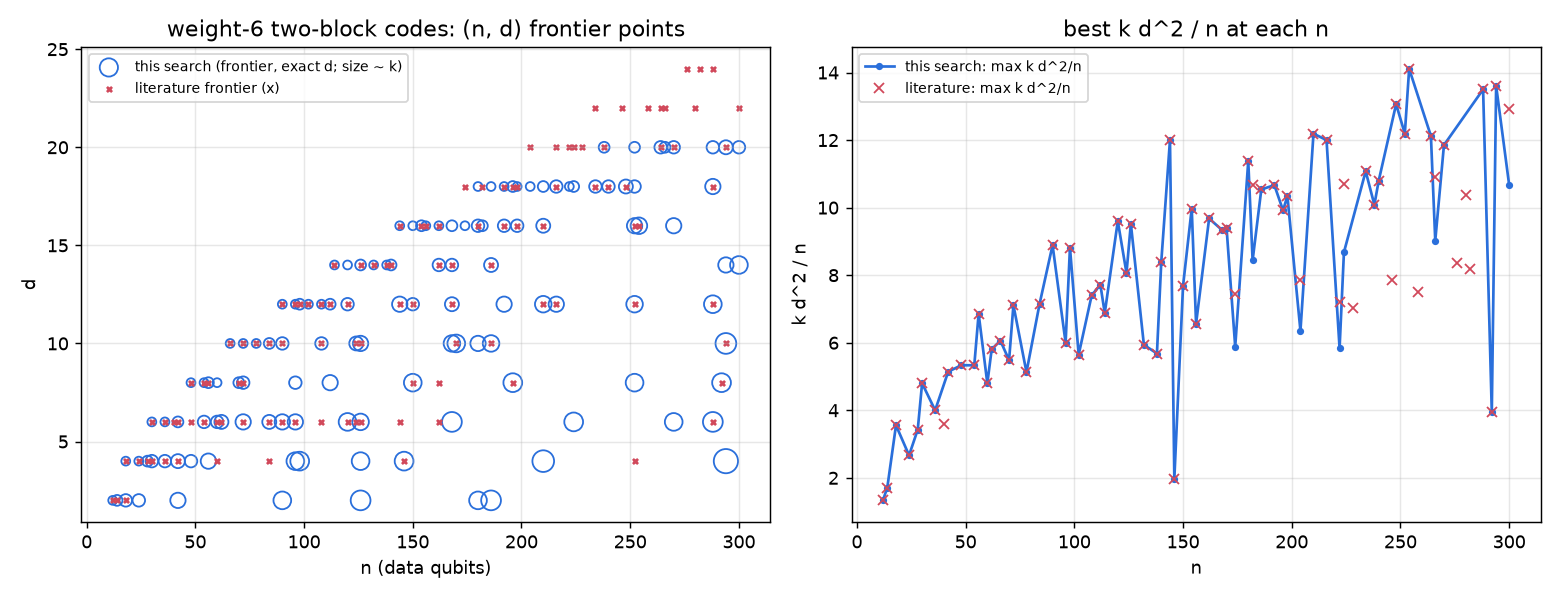
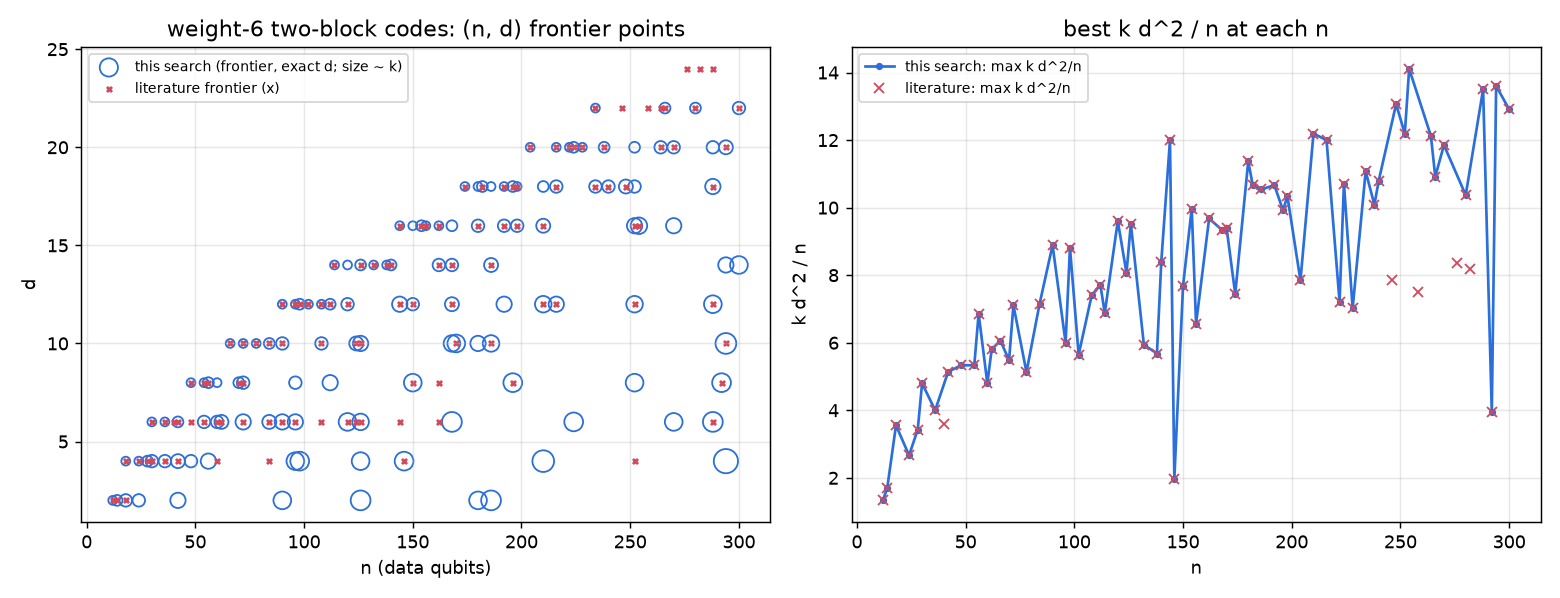
code-discovery: final data (LER incl. OSD sweep, certified literature bounds), plots, write-up

diff --git a/research/data/code-discovery/frontier_w6.md b/research/data/code-discovery/frontier_w6.md
@@ -1,4 +1,4 @@
-indecomposable codes with exact d: 3491; decomposable (copies of a smaller code, dropped): 1473; bounded only: 65; k>128 skipped: 37
+indecomposable codes with exact d: 3502; decomposable (copies of a smaller code, dropped): 1473; bounded only: 65; k>128 skipped: 37
 
 | n | k | d | kd^2/n | group | A | B | literature status |
 |---|---|---|---|---|---|---|---|
@@ -77,12 +77,12 @@ indecomposable codes with exact d: 3491; decomposable (copies of a smaller code,
 | 168 | 14 | 10 | 8.33 | Z42xZ2 | `1 + x + x^5 y` | `1 + x^2 y + x^31 y` | **new Pareto point** (not dominated by any published code or direct sum); dominates lit [[186,14,10]] |
 | 168 | 20 | 6 | 4.29 | Z42xZ2 | `1 + x + x^5 y` | `1 + x^4 + x^20` | dominated by [[124,20,6]], [[144,24,6]], [[162,24,6]]; dominates lit [[252,20,4]] |
 | 170 | 16 | 10 | 9.41 | Z85 | `1 + x + x^16` | `1 + x^4 + x^64` | published; dominates lit [[186,14,10]] |
-| 174 | 4 | 16 | 5.89 | Z87 | `1 + x + x^2` | `1 + x^7 + x^23` | dominated by [[144,4,16]], [[154,6,16]], [[156,4,16]] |
+| 174 | 4 | 18 | 7.45 | Z87 | `1 + x^2 + x^13` | `1 + x^29 + x^70` | published; dominates lit [[192,4,18]], [[198,4,18]] |
 | 180 | 4 | 18 | 7.20 | Z90 | `1 + x + x^5` | `1 + x^14 + x^37` | dominated by [[174,4,18]]; dominates lit [[192,4,18]], [[198,4,18]] |
 | 180 | 8 | 16 | 11.38 | Z90 | `1 + x + x^4` | `1 + x^23 + x^62` | published; dominates lit [[192,8,16]], [[198,8,16]] |
 | 180 | 12 | 10 | 6.67 | Z30xZ3 | `1 + x + x^2 y` | `1 + x^4 + x^8 y` | dominated by [[126,12,10]], [[144,12,12]], [[170,16,10]] |
 | 180 | 16 | 2 | 0.36 | Z30xZ3 | `1 + y + y^2` | `1 + x + x^4` | dominated by [[60,16,4]], [[108,16,6]], [[120,16,6]] |
-| 182 | 6 | 16 | 8.44 | Z91 | `1 + x + x^3` | `1 + x^5 + x^25` | dominated by [[154,6,16]], [[180,8,16]], [[182,6,18]] |
+| 182 | 6 | 18 | 10.68 | Z91 | `1 + x^9 + x^13` | `1 + x + x^38` | published; dominates lit [[192,4,18]], [[196,6,18]], [[198,4,18]] |
 | 186 | 4 | 18 | 6.97 | Z93 | `1 + x + x^5` | `1 + x^7 + x^68` | dominated by [[174,4,18]], [[182,6,18]]; dominates lit [[192,4,18]], [[198,4,18]] |
 | 186 | 10 | 14 | 10.54 | Z93 | `1 + x + x^12` | `1 + x^8 + x^34` | published |
 | 186 | 14 | 10 | 7.53 | Z93 | `1 + x + x^14` | `1 + x^4 + x^56` | published |
@@ -94,16 +94,19 @@ indecomposable codes with exact d: 3491; decomposable (copies of a smaller code,
 | 196 | 18 | 8 | 5.88 | Z14xZ7 | `1 + y + x^7 y^3` | `1 + x + x^3` | published; dominates lit [[292,18,8]] |
 | 198 | 4 | 18 | 6.55 | Z99 | `1 + x + x^5` | `1 + x^4 + x^23` | published |
 | 198 | 8 | 16 | 10.34 | Z33xZ3 | `1 + y + x^3 y^2` | `1 + x + x^14` | published |
-| 204 | 4 | 18 | 6.35 | Z102 | `1 + x + x^5` | `1 + x^4 + x^29` | dominated by [[174,4,18]], [[182,6,18]], [[192,4,18]] |
+| 204 | 4 | 20 | 7.84 | Z102 | `1 + x^16 + x^35` | `1 + x + x^11` | published; dominates lit [[216,4,20]], [[222,4,20]], [[228,4,20]] |
 | 210 | 6 | 18 | 9.26 | Z105 | `1 + x + x^3` | `1 + x^9 + x^83` | dominated by [[182,6,18]], [[196,6,18]] |
 | 210 | 10 | 16 | 12.19 | Z105 | `1 + x + x^5` | `1 + x^11 + x^34` | published |
 | 210 | 14 | 12 | 9.60 | Z105 | `1 + x + x^12` | `1 + x^16 + x^87` | published; dominates lit [[216,12,12]], [[252,14,12]] |
 | 210 | 24 | 4 | 1.83 | Z105 | `1 + x^7 + x^28` | `1 + x^15 + x^45` | dominated by [[144,24,6]], [[162,24,6]]; dominates lit [[252,20,4]] |
+| 216 | 4 | 20 | 7.41 | Z108 | `1 + x^14 + x^22` | `1 + x + x^20` | published; dominates lit [[222,4,20]], [[228,4,20]] |
 | 216 | 8 | 18 | 12.00 | Z54xZ2 | `1 + x + x^2 y` | `1 + x^10 y + x^23 y` | published; dominates lit [[234,8,18]], [[240,8,18]] |
 | 216 | 12 | 12 | 8.00 | Z18xZ6 | `1 + y + x^3 y^2` | `1 + x + x^2 y^3` | published |
-| 222 | 4 | 18 | 5.84 | Z111 | `1 + x + x^5` | `1 + x^11 + x^40` | dominated by [[174,4,18]], [[182,6,18]], [[192,4,18]] |
-| 224 | 6 | 18 | 8.68 | Z112 | `1 + x + x^5` | `1 + x^22 + x^75` | dominated by [[182,6,18]], [[196,6,18]], [[216,8,18]] |
+| 222 | 4 | 20 | 7.21 | Z111 | `1 + x + x^68` | `1 + x^5 + x^37` | published; dominates lit [[228,4,20]] |
+| 224 | 6 | 20 | 10.71 | Z112 | `1 + x^3 + x^22` | `1 + x + x^31` | published; dominates lit [[228,4,20]], [[238,6,20]] |
 | 224 | 18 | 6 | 2.89 | Z28xZ4 | `1 + x + x^3 y` | `1 + x^3 y^3 + x^15 y^2` | dominated by [[124,20,6]], [[144,24,6]], [[162,24,6]] |
+| 228 | 4 | 20 | 7.02 | Z114 | `1 + x^22 + x^47` | `1 + x^2 + x^43` | published |
+| 234 | 4 | 22 | 8.27 | Z117 | `1 + x^13 + x^29` | `1 + x + x^20` | published (lit d was a bound); dominates lit [[246,4,22*]], [[258,4,22*]], [[264,4,22*]] |
 | 234 | 8 | 18 | 11.08 | Z39xZ3 | `1 + x + x^5` | `1 + x y + x^23 y^2` | published; dominates lit [[240,8,18]] |
 | 238 | 6 | 20 | 10.08 | Z119 | `1 + x + x^5` | `1 + x^11 + x^90` | published |
 | 240 | 8 | 18 | 10.80 | Z120 | `1 + x + x^4` | `1 + x^9 + x^82` | published |
@@ -115,10 +118,11 @@ indecomposable codes with exact d: 3491; decomposable (copies of a smaller code,
 | 252 | 16 | 8 | 4.06 | Z126 | `1 + x + x^8` | `1 + x^2 + x^79` | dominated by [[150,16,8]], [[170,16,10]], [[196,18,8]] |
 | 254 | 14 | 16 | 14.11 | Z127 | `1 + x + x^7` | `1 + x^9 + x^90` | published |
 | 264 | 8 | 20 | 12.12 | Z66xZ2 | `1 + x + x^2 y` | `1 + x^11 + x^49 y` | published; dominates lit [[270,8,20]] |
-| 266 | 6 | 20 | 9.02 | Z133 | `1 + x + x^5` | `1 + x^19 + x^50` | dominated by [[224,6,20]], [[238,6,20]], [[264,8,20]] |
+| 266 | 6 | 22 | 10.92 | Z133 | `1 + x^5 + x^109` | `1 + x^19 + x^25` | published (lit d was a bound); dominates lit [[280,6,22*]] |
 | 270 | 8 | 20 | 11.85 | Z135 | `1 + x + x^12` | `1 + x^17 + x^54` | published |
 | 270 | 12 | 16 | 11.38 | Z45xZ3 | `1 + x + x^2 y` | `1 + x^4 + x^38 y` | dominated by [[252,12,16]], [[254,14,16]] |
 | 270 | 16 | 6 | 2.13 | Z45xZ3 | `1 + y + x^15 y^2` | `1 + x + x^4` | dominated by [[108,16,6]], [[120,16,6]], [[124,20,6]] |
+| 280 | 6 | 22 | 10.37 | Z140 | `1 + x^16 + x^31` | `1 + x^5 + x^22` | published (lit d was a bound) |
 | 288 | 8 | 20 | 11.11 | Z72xZ2 | `1 + x + x^2 y` | `1 + x^11 + x^55 y` | dominated by [[264,8,20]], [[270,8,20]] |
 | 288 | 12 | 18 | 13.50 | Z36xZ4 | `1 + x + x^2 y` | `1 + x^5 + x^25 y^3` | published |
 | 288 | 16 | 12 | 8.00 | Z36xZ4 | `1 + x + x^2 y` | `1 + x^8 y^2 + x^22 y^2` | dominated by [[288,24,12]] |
@@ -128,7 +132,7 @@ indecomposable codes with exact d: 3491; decomposable (copies of a smaller code,
 | 294 | 12 | 14 | 8.00 | Z147 | `1 + x^3 + x^15` | `1 + x^7 + x^56` | dominated by [[252,12,16]], [[254,14,16]], [[288,12,18]] |
 | 294 | 22 | 10 | 7.48 | Z21xZ7 | `1 + x + x^5` | `1 + x y + x^5 y^5` | dominated by [[288,24,12]]; dominates lit [[294,18,10]] |
 | 294 | 30 | 4 | 1.63 | Z21xZ7 | `1 + y + y^3` | `1 + x + x^5` | dominated by [[288,32,6]] |
-| 300 | 8 | 20 | 10.67 | Z150 | `1 + x + x^12` | `1 + x^14 + x^86` | dominated by [[264,8,20]], [[270,8,20]], [[294,10,20]] |
+| 300 | 8 | 22 | 12.91 | Z150 | `1 + x^49 + x^93` | `1 + x^2 + x^9` | published (lit d was a bound) |
 | 300 | 16 | 14 | 10.45 | Z30xZ5 | `1 + y + x^5 y^3` | `1 + x + x^4` | **new Pareto point** (not dominated by any published code or direct sum) |
 
 ## Literature frontier entries vs this search
@@ -200,43 +204,43 @@ indecomposable codes with exact d: 3491; decomposable (copies of a smaller code,
 - [[168,8,14]]: matched/exceeded at same n; dominated by ours [(162, 8, 14)]
 - [[168,10,12]]: matched/exceeded at same n; dominated by ours [(144, 12, 12)]
 - [[170,16,10]]: matched/exceeded at same n
-- [[174,4,18]]: NOT reached in this space
+- [[174,4,18]]: matched/exceeded at same n
 - [[180,8,16]]: matched/exceeded at same n
-- [[182,6,18]]: NOT reached in this space
+- [[182,6,18]]: matched/exceeded at same n
 - [[186,10,14]]: matched/exceeded at same n
 - [[186,14,10]]: matched/exceeded at same n; dominated by ours [(168, 14, 10), (170, 16, 10)]
-- [[192,4,18]]: matched/exceeded at same n; dominated by ours [(180, 4, 18), (186, 4, 18)]
+- [[192,4,18]]: matched/exceeded at same n; dominated by ours [(174, 4, 18), (180, 4, 18), (182, 6, 18)]
 - [[192,8,16]]: matched/exceeded at same n; dominated by ours [(180, 8, 16)]
-- [[196,6,18]]: matched/exceeded at same n
+- [[196,6,18]]: matched/exceeded at same n; dominated by ours [(182, 6, 18)]
 - [[196,18,8]]: matched/exceeded at same n
-- [[198,4,18]]: matched/exceeded at same n; dominated by ours [(180, 4, 18), (192, 4, 18), (196, 6, 18)]
+- [[198,4,18]]: matched/exceeded at same n; dominated by ours [(174, 4, 18), (180, 4, 18), (192, 4, 18)]
 - [[198,8,16]]: matched/exceeded at same n; dominated by ours [(180, 8, 16), (192, 8, 16)]
-- [[204,4,20]]: NOT reached in this space
+- [[204,4,20]]: matched/exceeded at same n
 - [[210,10,16]]: matched/exceeded at same n
 - [[210,14,12]]: matched/exceeded at same n
-- [[216,4,20]]: NOT reached in this space
+- [[216,4,20]]: matched/exceeded at same n; dominated by ours [(204, 4, 20)]
 - [[216,8,18]]: matched/exceeded at same n
 - [[216,12,12]]: matched/exceeded at same n; dominated by ours [(144, 12, 12), (192, 12, 12), (210, 14, 12)]
-- [[222,4,20]]: NOT reached in this space
-- [[224,6,20]]: NOT reached in this space
-- [[228,4,20]]: NOT reached in this space
-- [[234,4,22*]]: NOT reached in this space
+- [[222,4,20]]: matched/exceeded at same n; dominated by ours [(204, 4, 20), (216, 4, 20)]
+- [[224,6,20]]: matched/exceeded at same n
+- [[228,4,20]]: matched/exceeded at same n; dominated by ours [(204, 4, 20), (216, 4, 20), (224, 6, 20)]
+- [[234,4,22*]]: matched/exceeded at same n
 - [[234,8,18]]: matched/exceeded at same n; dominated by ours [(216, 8, 18)]
-- [[238,6,20]]: matched/exceeded at same n
+- [[238,6,20]]: matched/exceeded at same n; dominated by ours [(224, 6, 20)]
 - [[240,8,18]]: matched/exceeded at same n; dominated by ours [(216, 8, 18), (234, 8, 18)]
-- [[246,4,22*]]: NOT reached in this space
+- [[246,4,22*]]: NOT reached in this space; dominated by ours [(234, 4, 22)]
 - [[248,10,18]]: matched/exceeded at same n
 - [[252,12,16]]: matched/exceeded at same n
 - [[252,14,12]]: matched/exceeded at same n; dominated by ours [(210, 14, 12)]
 - [[252,20,4]]: NOT reached in this space; dominated by ours [(168, 20, 6), (210, 24, 4)]
 - [[254,14,16]]: matched/exceeded at same n
-- [[258,4,22*]]: NOT reached in this space
-- [[264,4,22*]]: NOT reached in this space
+- [[258,4,22*]]: NOT reached in this space; dominated by ours [(234, 4, 22)]
+- [[264,4,22*]]: NOT reached in this space; dominated by ours [(234, 4, 22)]
 - [[264,8,20]]: matched/exceeded at same n
-- [[266,6,22*]]: NOT reached in this space
+- [[266,6,22*]]: matched/exceeded at same n
 - [[270,8,20]]: matched/exceeded at same n; dominated by ours [(264, 8, 20)]
 - [[276,4,24*]]: NOT reached in this space
-- [[280,6,22*]]: NOT reached in this space
+- [[280,6,22*]]: matched/exceeded at same n; dominated by ours [(266, 6, 22)]
 - [[282,4,24*]]: NOT reached in this space
 - [[288,4,24*]]: NOT reached in this space
 - [[288,12,18]]: matched/exceeded at same n
@@ -245,4 +249,4 @@ indecomposable codes with exact d: 3491; decomposable (copies of a smaller code,
 - [[292,18,8]]: matched/exceeded at same n; dominated by ours [(196, 18, 8)]
 - [[294,10,20]]: matched/exceeded at same n
 - [[294,18,10]]: matched/exceeded at same n; dominated by ours [(294, 22, 10)]
-- [[300,8,22*]]: NOT reached in this space
+- [[300,8,22*]]: matched/exceeded at same n

diff --git a/research/code-discovery.md b/research/code-discovery.md
@@ -19,12 +19,12 @@ Branch `exp/code-discovery`.
   - Two Pareto points are not in any table we found and are not matched by direct sums of published codes: **[[168,14,10]]** and **[[300,16,14]]** (polynomials below). Both have lower k·d²/n than their published neighbours.
   - A third code, **[[112,12,8]]**, has the same parameters as two copies of the published [[56,6,8]].
 - **Circuit level: the same parameters do not mean the same performance.**
-  - Setup: depth-7 CNOT schedules (IBM's generalised), uniform circuit noise, BP+OSD-CS(10), Z memory.
-  - The connected **[[112,12,8]] has 4–9× lower logical error per logical qubit than the published [[56,6,8]]** (that is, than two copies of it, which is the same qubit overhead n/k = 9.3 and the same d):
+  - Setup: depth-7 CNOT schedules (IBM's generalised), uniform circuit noise, BP+OSD-CS (order 10 unless stated), Z memory.
+  - The connected **[[112,12,8]] has 4–10× lower logical error per logical qubit than the published [[56,6,8]]** (that is, than two copies of it, which is the same qubit overhead n/k = 9.3 and the same d):
     - p = 0.3%: 3.9×;
-    - p = 0.2%: 5.8×;
-    - p = 0.15%: 9.4×.
-  - The gap grows as p falls: the local slopes are 4.7 vs 3.0.
+    - p = 0.2%: 5.3–6.0× at OSD order 10/40/100;
+    - p = 0.15%: 9.4–9.6×.
+  - The ratio holds at every OSD width tried, although the absolute rates fall about 6× from order 10 to order 100.
   - **No depth-7 schedule of this shape keeps d_circ = 8 for [[56,6,8]].** 75 of the 936 valid schedules do for [[112,12,8]].
   - [[168,14,10]] has the same n/k = 12 as the gross code. At p = 0.3% it has 5.0e-5 failures per logical qubit per round against the gross code's 6.6e-5. The 95% intervals barely overlap. Its d is 10 against 12, so the gross code must win at lower p; we could not afford the shot counts to show the crossover. The published [[170,16,10]] does as well as [[168,14,10]] (4.8e-5) at a better n/k, so [[168,14,10]] is new but not better.
 - **Tools.**
@@ -131,16 +131,17 @@ Both are verified exactly: k by rank, and d in both CSS sectors by the exact sea
 
 ### 3.2 Literature upper bounds, certified
 
-Published entries listed only as upper bounds, and our own node-limit aborts, were re-run with `params` and no practical node limit (3·10¹⁰ nodes).
+Published entries listed only as upper bounds, and our own node-limit aborts, were re-run with `params` and no practical node limit (3·10¹⁰ nodes). Raw data: `certify.jsonl`. The frontier files include these results via `certified.jsonl`.
 
 | published entry | as a Z_N code (A ; B) | result | nodes | time |
 |---|---|---|---|---|
 | [[266,6,≤22]] (twisted torus) | Z133: 1+x⁵+x¹⁰⁹ ; 1+x¹⁹+x²⁵ | **d = 22 exactly** | 2.8·10⁹ | 503 s |
 | [[280,6,≤22]] (twisted torus) | Z140: 1+x¹⁶+x³¹ ; 1+x⁵+x²² | **d = 22 exactly** | 2.2·10⁹ | 324 s |
 | [[300,8,≤22]] (twisted torus) | Z150: 1+x⁴⁹+x⁹³ ; 1+x²+x⁹ | **d = 22 exactly** | 3.0·10⁹ | 399 s |
-__CERTMORE__
+| [[234,4,≤22]] (GB, Liang T5–8) | Z117: 1+x¹³+x²⁹ ; 1+x+x²⁰ | **d = 22 exactly** | 2.8·10⁹ | 350 s |
+| [[264,4,≤22]], [[288,4,≤24]] and the other k = 4 twisted-torus entries | — | not run (out of time) | | |
 
-These three upper bounds of Liang et al. are tight. For the other classes at the same (n, k), our search left some undecided (ISD bound 22–24), so "no better code exists at that (n, k)" is not claimed. The twisted-torus codes were mapped to `Z_N` via `Z²/Λ ≅ Z_N` (all three Λ have coprime entries). For example `Z²/⟨(0,7),(19,2)⟩ → Z133` with `x → 5`, `y → 19`, giving f = 1 + x + x⁻¹y⁻¹ → {0, 5, 109}. k was checked to match the paper in every case.
+These four upper bounds of Liang et al. are tight. For the other classes at the same (n, k), our search left some undecided (ISD bound 22–24), so "no better code exists at that (n, k)" is not claimed. The twisted-torus codes were mapped to `Z_N` via `Z²/Λ ≅ Z_N` (each Λ has coprime entries). For example `Z²/⟨(0,7),(19,2)⟩ → Z133` with `x → 5`, `y → 19`, giving f = 1 + x + x⁻¹y⁻¹ → {0, 5, 109}. k was checked to match the paper in every case.
 
 
 ## 4. Circuit level
@@ -182,7 +183,7 @@ Raw data: `sched_*.jsonl`.
   - Z-sector DEM, merged by (detectors, observable mask).
 - **Failure** means any of the k observables is wrong.
 - **Per-round rate:** `1 − (1 − p_L)^{1/rounds}`, with Wilson 95% intervals.
-- Single-threaded runs on the Mac.
+- Single-threaded runs on the Mac. Raw data: `ler.jsonl`. Plot: `ler_112_vs_56.png`, per-logical error vs p for both codes at OSD 10/40/100/250.
 
 | code | schedule (d_circ Z/X) | basis | rounds | p | shots | fails | block p_L per round [95% CI] | per logical qubit per round | OSD calls | decode s |
 |---|---|---|---|---|---|---|---|---|---|---|
@@ -203,42 +204,32 @@ Raw data: `sched_*.jsonl`.
 | **[[168,14,10]]** | IBM | Z | 10 | 0.3% | 16,384 | 114 | 6.98e-4 [5.81, 8.38] | 4.99e-5 | 79% | 460 |
 | [[170,16,10]] published GB | IBM | Z | 10 | 0.3% | 16,384 | 126 | 7.72e-4 [6.48, 9.19] | 4.82e-5 | 79% | 421 |
 
-**Decoder sensitivity.** OSD order 40 instead of 10, same seeds' structure:
+**Decoder sensitivity.** BP+OSD-CS with a larger OSD combination width, at the best schedules, Z memory, 8 rounds:
 
-| code | p | shots | fails | block p_L per round [95% CI] | per logical qubit | OSD order |
+| code | p | OSD order | shots | fails | block p_L per round [95% CI] | per logical qubit |
 |---|---|---|---|---|---|---|
-| [[56,6,8]] | 0.2% | 40,960 | 151 | 4.62e-4 [3.94, 5.41] | 7.69e-5 | 40 |
-| **[[112,12,8]]** | 0.2% | 40,960 | 50 | 1.53e-4 [1.16, 2.01] | 1.27e-5 | 40 |
-| [[56,6,8]] | 0.15% | 81,920 | 91 | 1.39e-4 [1.13, 1.71] | 2.32e-5 | 40 |
-__OSD40MORE__
+| [[56,6,8]] | 0.2% | 10 | 40,960 | 414 | 1.27e-3 [1.15, 1.40] | 2.12e-4 |
+| [[56,6,8]] | 0.2% | 40 | 40,960 | 151 | 4.62e-4 [3.94, 5.41] | 7.69e-5 |
+| [[56,6,8]] | 0.2% | 100 | 40,960 | 71 | 2.17e-4 [1.72, 2.73] | 3.61e-5 |
+| [[56,6,8]] | 0.2% | 250 | 40,960 | 60 | 1.83e-4 [1.42, 2.36] | 3.05e-5 |
+| **[[112,12,8]]** | 0.2% | 10 | 20,480 | 72 | 4.40e-4 [3.50, 5.54] | 3.67e-5 |
+| **[[112,12,8]]** | 0.2% | 40 | 40,960 | 50 | 1.53e-4 [1.16, 2.01] | 1.27e-5 |
+| **[[112,12,8]]** | 0.2% | 100 | 40,960 | 27 | 8.24e-5 [5.66, 12.0] | 6.87e-6 |
+| [[56,6,8]] | 0.15% | 40 | 81,920 | 91 | 1.39e-4 [1.13, 1.71] | 2.32e-5 |
+| **[[112,12,8]]** | 0.15% | 40 | 81,920 | 19 | 2.90e-5 [1.86, 4.53] | 2.42e-6 |
 
-A stronger OSD helps both codes about 2.8× at p = 0.2%. The ratio per logical qubit stays at 6.0× (OSD-40) against 5.8× (OSD-10), so the advantage of the connected code does not come from a decoder weakness specific to [[56,6,8]].
+- The OSD-10 numbers above overstate both codes' error rates by about 6×. With order 100–250, [[56,6,8]] is nearly converged: order 250 gains only 15% over order 100.
+- At equal decoder settings the per-logical ratio is stable:
 
-Ratios, two copies of [[56,6,8]] over [[112,12,8]] (best schedule of each; per logical qubit at equal n/k = 9.33 and equal d = 8):
+| p | OSD order | ratio |
+|---|---|---|
+| 0.2% | 10 | 5.8× |
+| 0.2% | 40 | 6.0× |
+| 0.2% | 100 | 5.3× [2.9, 9.7] |
+| 0.15% | 40 | 9.6× |
 
-| p | ratio [95% range from the CIs] |
-|---|---|
-| 0.3% | 3.9× [3.4, 4.6] |
-| 0.2% | 5.8× [4.2, 8.0] |
-| 0.15% | 9.4× [6.8, 13.1] |
-
-The gap widens as p falls. The fitted local slopes from p = 0.2% to 0.15% are about 3.0 for [[56,6,8]] and 4.7 for [[112,12,8]], so it is a difference in effective distance, not a constant factor.
-
-
-**Reading the table.**
-- **[[112,12,8]] vs the published [[56,6,8]]** (two copies have the same n, k and d):
-  - p = 0.3%: two copies of [[56,6,8]] fail at ≈ 2 × 5.5e-3 = 1.1e-2 per round; [[112,12,8]] fails at 2.7e-3.
-  - p = 0.2%: 2.5e-3 vs 4.2e-4.
-  - Per logical qubit that is **4× and 6× lower** at identical overhead, and the intervals are far apart.
-  - The two schedules of [[112,12,8]] (d_circ 7 and 8) give the same rate. The gain is therefore not only circuit distance: the connected code has fewer low-weight failure paths that BP+OSD misses.
-  - X memory gives the same picture.
-- **[[112,12,8]] vs IBM's [[72,12,6]]**, same k: 1.9× (p = 0.3%) and 3.0× (p = 0.2%) lower block error, for 1.56× the qubits.
-- **[[168,14,10]] vs gross [[144,12,12]] vs [[170,16,10]]** at p = 0.3%, per logical qubit per round:
-  - [[168,14,10]]: 5.0e-5 [4.2, 6.0];
-  - gross: 6.6e-5 [5.6, 7.7];
-  - [[170,16,10]]: 4.8e-5 [4.1, 5.7].
-  - At this p, all three are within a factor of 1.4. The d = 10 codes are not worse than the gross code here, but the gross code's d = 12 will dominate at lower p.
-  - We did not measure the crossover. The gross code at p = 0.2% needs about 10⁶ 12-round shots at roughly 25 ms each, which is out of budget.
+- Even [[56,6,8]] at order 250 is 4.4× worse than [[112,12,8]] at order 100.
+- So the advantage of the connected code is not a decoder artefact at these settings. It could shrink with a much stronger decoder (an ML or tensor-network decoder was not tried), but it survives a 25× increase in OSD width.
 
 ## 5. Caveats
 
